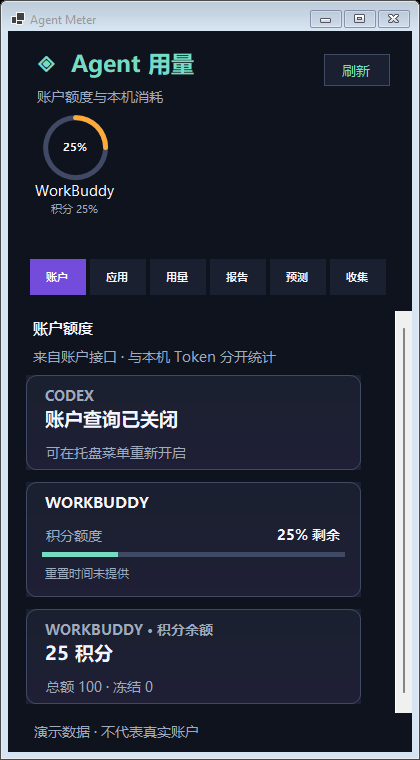
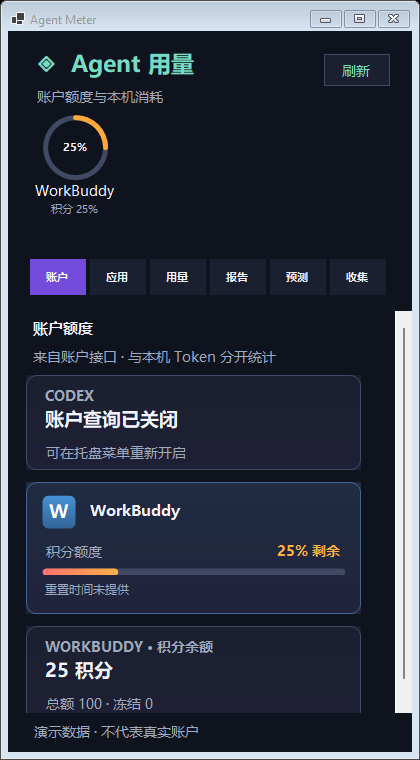
更新 Alpha 9 中文首页与界面预览

Changed region(s): [[0.0619, 0.6355, 0.8667, 0.9382], [0.8357, 0.6355, 0.8667, 0.6658]]

diff --git a/windows/PORT_PLAN.md b/windows/PORT_PLAN.md
@@ -10,7 +10,7 @@
 | 账户额度 | Codex 已在本机实测；Kimi 本地服务、Claude Code 凭据、MiniMax 和 DeepSeek API 余额通过模拟测试；已加入默认关闭的 WorkBuddy 独立网页登录及积分查询 | 验证托盘开关交互及真实 Windows 账户和 WorkBuddy 登录；继续适配 Qoder、TRAE、即梦及其他原项目来源 |
 | 应用和本机消耗 | 多个本地账本、四个统计周期、模型排行、趋势及近 24 小时应用活动汇总已接入；Qoder 积分独立计量 | 验证活动、趋势与排行界面；完善客户端路径、项目归因、历史导入和重复计数规则 |
 | 模型与计费 | 使用上游内置价格和固定回退汇率，展示逐账本的今日美元 API 等价估算；支持本机自定义美元价格 | 验证实际账本和价格编辑界面；移植模型目录同步、更多周期、峰谷与汇率设置 |
-| 七套主题与卡片 | 七种配色和基础卡片样式已接入；账户和本机消耗分栏，额度仪表可显示短、长两个周期；同一服务的额度窗口合并到一张卡片。主分支正在调整服务标识、分组色彩和额度进度条 | 对照上游逐套实机检查与完善材质、动效、账户卡片、曲线和自适应布局；目前仍有明显视觉差距 |
+| 七套主题与卡片 | 七种配色和基础卡片样式已接入；账户和本机消耗分栏，额度仪表可显示短、长两个周期；同一服务的额度窗口合并到一张卡片，新增服务标识、分组色彩和额度进度条 | 对照上游逐套实机检查与完善材质、动效、账户卡片、曲线和自适应布局；目前仍有明显视觉差距 |
 | 通知与自动领取 | 低额度提醒默认关闭，可在托盘菜单开启；阈值与同周期去重已做模拟测试 | 实机验证 Windows 通知；继续移植重置卡、积分和订阅提醒；自动领取默认关闭，逐平台验证写操作与授权 |
 | 多账号 | MiniMax 最多 5 个账户独立查询；密钥保存在 Windows 凭据管理器，账户列表和查询链路已用模拟数据测试 | 实机验证账户管理窗口和真实账户；扩展其他服务的隔离与切换 |
 | 重置预测 | 已加入默认关闭的第三方预测，可区分站点公布值与模型推算；模拟测试通过，一次隔离网络检查中 3 个站点有 2 个返回可用数据 | 检查不可用站点、缓存失效和 Windows 页面交互；继续移植合并预测、历史与倒计时；不把预测当作个人账户重置 |
@@ -26,7 +26,8 @@
 - 真实大账本首次扫描约 91 秒，同一进程内第二次约 1.3 秒；缓存只保存在内存，文件变化会重新读取。测试结果只适用于本机数据规模。
 - GitHub Windows 运行器已构建便携包并通过隔离数据和程序启动检查；开发电脑也验证了解压启动。完整托盘交互与另一台独立实体电脑尚未验证。
 - 此前公开的 [Alpha 7 预览版](https://github.com/FoxBai/agent-meter-windows/releases/tag/windows-v0.1.0-alpha.7) 并非完整移植，尚未代码签名。该包对应提交 `033d7b9`；Windows 构建和跨平台检查通过，解压包已用隔离账本验证价格、活动汇总隐私、徽章与卡片、账户开关、DeepSeek 默认关闭和预测缓存，卡册展开与桌宠窗口在隔离构建机完成基础检查。主题、通知、完整托盘交互和真实新增账户仍待实机验收。
-- 当前公开 [Alpha 8 预览版](https://github.com/FoxBai/agent-meter-windows/releases/tag/windows-v0.1.0-alpha.8) 对应提交 `1e34c58`；独立构建机以虚构 Cookie 验证 WebView2 资料读取和清除，安装包通过隔离数据检查。WorkBuddy 真实登录尚未验证。
+- [Alpha 8 预览版](https://github.com/FoxBai/agent-meter-windows/releases/tag/windows-v0.1.0-alpha.8) 对应提交 `1e34c58`；独立构建机以虚构 Cookie 验证 WebView2 资料读取和清除，安装包通过隔离数据检查。WorkBuddy 真实登录尚未验证。
+- 当前公开 [Alpha 9 预览版](https://github.com/FoxBai/agent-meter-windows/releases/tag/windows-v0.1.0-alpha.9) 对应提交 `dfb9233`；构建与隔离数据检查通过，已检查账户卡片的深色、浅色和窄窗口演示图，真实设备仍需验收。
 
 ## 安全与数据边界
 

diff --git a/README.en.md b/README.en.md
@@ -16,7 +16,7 @@ A Windows system-tray companion for account limits and local agent usage, built 
 
 ![Agent Meter panel with fictional demo data](windows/assets/screenshot.png)
 
-The Alpha 7 screenshot was generated with fictional demo data on an isolated Windows runner; window borders may vary by Windows version. Actual availability depends on the agent, account, local files and version. See also the [local usage](windows/assets/usage-preview.png), [calendar report](windows/assets/report-preview.png), [reset forecast](windows/assets/forecast-preview.png), [collection](windows/assets/collection-preview.png), [DeepSeek balance](windows/assets/deepseek-preview.png) and [share card](windows/assets/report-share-preview.png) previews.
+The Alpha 9 screenshot was generated with fictional demo data on an isolated Windows runner; window borders may vary by Windows version. Actual availability depends on the agent, account, local files and version. See also the [local usage](windows/assets/usage-preview.png), [calendar report](windows/assets/report-preview.png), [reset forecast](windows/assets/forecast-preview.png), [collection](windows/assets/collection-preview.png), [DeepSeek balance](windows/assets/deepseek-preview.png) and [share card](windows/assets/report-share-preview.png) previews.
 
 ## What it does
 
@@ -73,7 +73,7 @@ The new Kimi, OpenCode, MiniMax Code, MiMo Code, DevECo and Qoder CN readers hav
 
 ### Download the preview
 
-Download [Windows v0.1.0-alpha.8](https://github.com/FoxBai/agent-meter-windows/releases/tag/windows-v0.1.0-alpha.8), extract `AgentMeter-Windows-x64.zip`, and run `AgentMeter.Windows.exe` from the extracted folder. The portable bundle includes the application runtime; WorkBuddy requires a separately installed WebView2 Runtime. The preview is not code-signed; the release page includes a SHA-256 checksum. The complete tray lifecycle, themes and a separate clean physical installation have not yet been verified.
+Download [Windows v0.1.0-alpha.9](https://github.com/FoxBai/agent-meter-windows/releases/tag/windows-v0.1.0-alpha.9), extract `AgentMeter-Windows-x64.zip`, and run `AgentMeter.Windows.exe` from the extracted folder. The portable bundle includes the application runtime; WorkBuddy requires a separately installed WebView2 Runtime. The preview is not code-signed; the release page includes a SHA-256 checksum. The complete tray lifecycle, themes and a separate clean physical installation have not yet been verified.
 
 ### Build from source
 

diff --git a/README.md b/README.md
@@ -16,7 +16,7 @@
 
 ![Agent Meter 面板，图中为虚构演示数据](windows/assets/screenshot.png)
 
-截图展示 Alpha 7 和 Alpha 8，在隔离的 Windows 构建环境中使用虚构演示数据生成；窗口边框可能因系统版本而异。实际可显示的字段取决于工具、账户、本机记录和版本。
+截图展示 Alpha 7 至 Alpha 9，在隔离的 Windows 构建环境中使用虚构演示数据生成；窗口边框可能因系统版本而异。实际可显示的字段取决于工具、账户、本机记录和版本。
 
 <details>
 <summary>查看本机消耗、报告、预测、收集与余额页面</summary>
@@ -99,7 +99,7 @@
 
 ### 下载预览版
 
-前往 [Windows v0.1.0-alpha.8 发布页](https://github.com/FoxBai/agent-meter-windows/releases/tag/windows-v0.1.0-alpha.8)，下载 `AgentMeter-Windows-x64.zip`，解压后运行其中的 `AgentMeter.Windows.exe`。便携包已包含程序运行环境；WorkBuddy 登录另需 Microsoft Edge WebView2 Runtime。当前预览版尚未进行代码签名，发布页同时提供 SHA-256 校验文件；完整托盘交互、主题和另一台全新 Windows 实机尚未验证。
+前往 [Windows v0.1.0-alpha.9 发布页](https://github.com/FoxBai/agent-meter-windows/releases/tag/windows-v0.1.0-alpha.9)，下载 `AgentMeter-Windows-x64.zip`，解压后运行其中的 `AgentMeter.Windows.exe`。便携包已包含程序运行环境；WorkBuddy 登录另需 Microsoft Edge WebView2 Runtime。当前预览版尚未进行代码签名，发布页同时提供 SHA-256 校验文件；完整托盘交互、主题和另一台全新 Windows 实机尚未验证。
 
 ### 从源码构建
 
